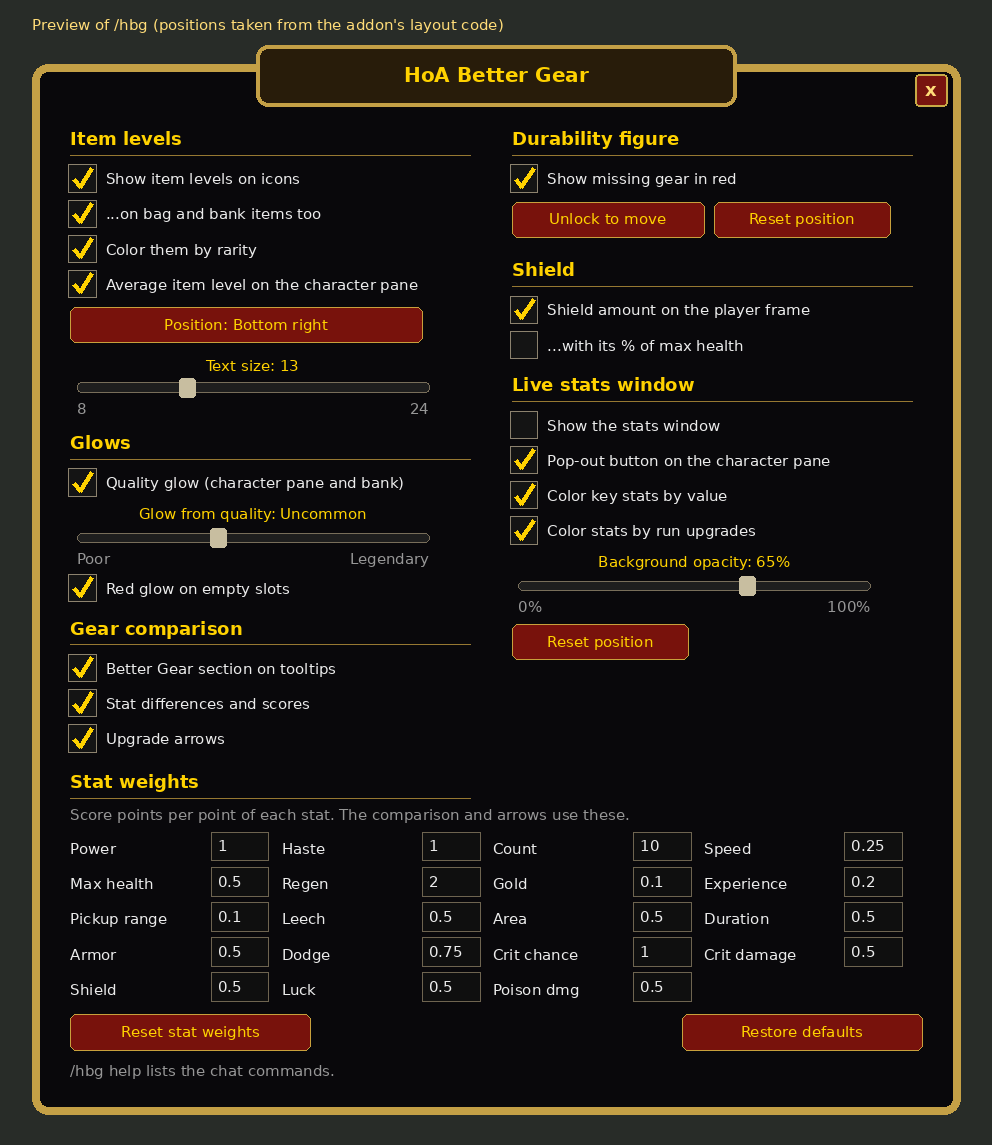
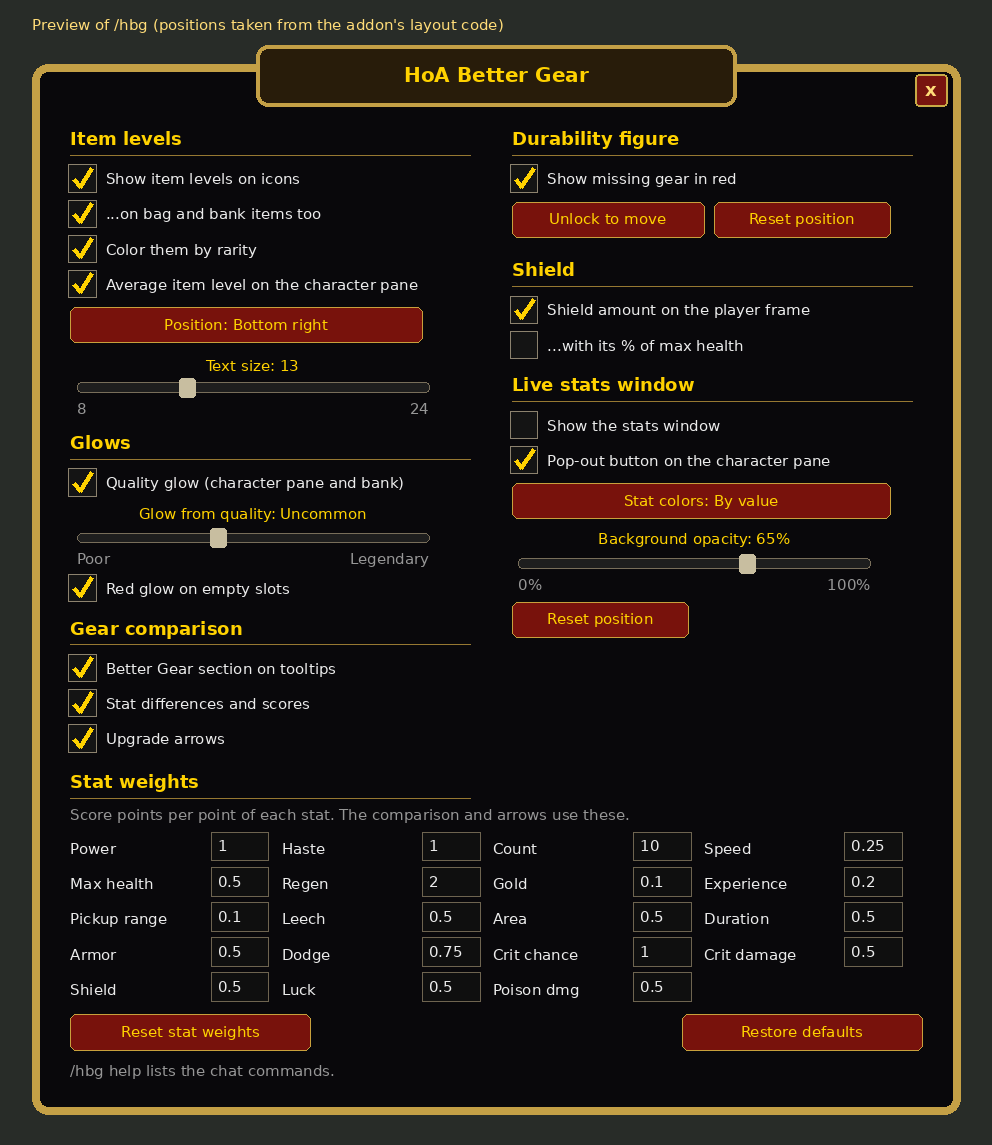
Make stat coloring a single choice: by value (default), by run growth, or off
The two overlapping checkboxes become one Stat colors setting: "By
value" (the persistent per-stat colors, the default), "By run growth"
(colors by growth since the run started, white outside runs) or "Off".
A button in the settings window cycles it; /hbg statcolors value|run|off
sets it. Saved settings migrate (value colors on -> by value).

Claude-Session: https://claude.ai/code/session_01QKDwL2YJcTPQk37yLQ8CLT

Changed region(s): [[0.5, 0.3974, 0.9062, 0.5808]]

diff --git a/README.md b/README.md
@@ -12,7 +12,7 @@ An addon for **Hordes of Azeroth** that helps you pick better gear:
 - **Gear comparison** (Pawn-style): every gear tooltip, and the **New** card in the loot window ("Wear it, carry it, or salvage it for Valor"), says how the item compares with what you have equipped, as a % upgrade or downgrade plus the difference in each stat.
 - **Exact shield amount**: your current Shield is printed in cyan at the right end of the player frame's health bar (e.g. `+52`, shortened from 1,000 up: `+1.2k`, `+10.5k`, `+105k`, `+1.2m`), next to HoA's cyan shield bar, optionally with its % of your max health.
 - **Run upgrade colors**: during a run, the stats on the character pane and in the live stats window change color as they grow past where they started: green from +5%, blue from +15%, purple from +30%, and orange (legendary) only once a stat is capped (Dodge 60%, Speed 50%, Pickup range 400%, Armor 300 — where its damage reduction maxes out and extra Armor turns into max health, ...). Back to white when the run ends.
-- **Key stat colors**: in and out of runs, Crit chance, Crit damage and Shield turn green from 33%, blue from 66%, purple above 100% and orange from 200% (Pickup range the same, but orange at its 400% cap); Armor, Dodge and Speed turn green, blue, then purple as they get a quarter, half and three quarters of the way to their cap (Armor 300, Dodge 60%, Speed 50%), and orange at it. Haste and Area, which have diminishing returns instead of a cap (they approach 75% and 60%), do the same towards that limit and turn orange from 90% of it. Max health turns green from 100%, blue from 250%, purple from 375% and orange from 500%; Power green above 100%, blue above 500%, purple above 1000% and orange above 1500%. Luck turns green above 0, blue above 20, purple above 40 and orange above 60 (repeat Luck picks shrink by 15% each, so runs usually level off around 60). With every stat on a value rule, the run upgrade colors only apply if "Color key stats by value" is turned off.
+- **Key stat colors**: in and out of runs, Crit chance, Crit damage and Shield turn green from 33%, blue from 66%, purple above 100% and orange from 200% (Pickup range the same, but orange at its 400% cap); Armor, Dodge and Speed turn green, blue, then purple as they get a quarter, half and three quarters of the way to their cap (Armor 300, Dodge 60%, Speed 50%), and orange at it. Haste and Area, which have diminishing returns instead of a cap (they approach 75% and 60%), do the same towards that limit and turn orange from 90% of it. Max health turns green from 100%, blue from 250%, purple from 375% and orange from 500%; Power green above 100%, blue above 500%, purple above 1000% and orange above 1500%. Luck turns green above 0, blue above 20, purple above 40 and orange above 60 (repeat Luck picks shrink by 15% each, so runs usually level off around 60). This "by value" coloring is the default; the settings window's **Stat colors** button (or `/hbg statcolors value|run|off`) switches to "by run growth" (the run upgrade colors above, white outside runs) or off.
 - **Live stats window**: a small pop-out with the character pane's stats (Power, Haste, Crit, Armor, Shield, ...) that updates in real time during a run, without keeping the character pane open. Open it with the small gold pop-out button just above the stats on the character pane, or `/hbg stats`. Drag it anywhere; it remembers where it was and whether it was open.
 - **Upgrade arrows**: items in your bags, your bank and at the Mythic Quartermaster that would be an upgrade get a green arrow. In the loot window, the New item gets a green arrow and each equipped piece it beats gets a red one.
 
@@ -76,6 +76,7 @@ The default weights favor damage (Power, Haste and Crit chance at 1.0, most defe
 | `/hbg move` | Unlock the durability figure to drag it; type it again to lock (`/hbg move reset` puts it back under the minimap) |
 | `/hbg shield` | Toggle the shield amount on the player frame |
 | `/hbg shieldpct` | Also show the shield as % of max health (e.g. `+52 (41%)`) |
+| `/hbg statcolors value\|run\|off` | How hero stats are colored: by their value (default), by growth during the run, or not at all |
 | `/hbg stats` | Show/hide the live stats window (`/hbg stats reset` moves it back to its default place; `/hbg stats button` hides/shows its button on the character pane; `/hbg stats opacity <0-100>` sets the background opacity, default 65) |
 | `/hbg color` | Toggle rarity-colored item levels (default on; off = the gold of the tooltip's `ilvl N`) |
 | `/hbg quality <0-5>` | Minimum quality that gets a glow (default `2` = uncommon) |
